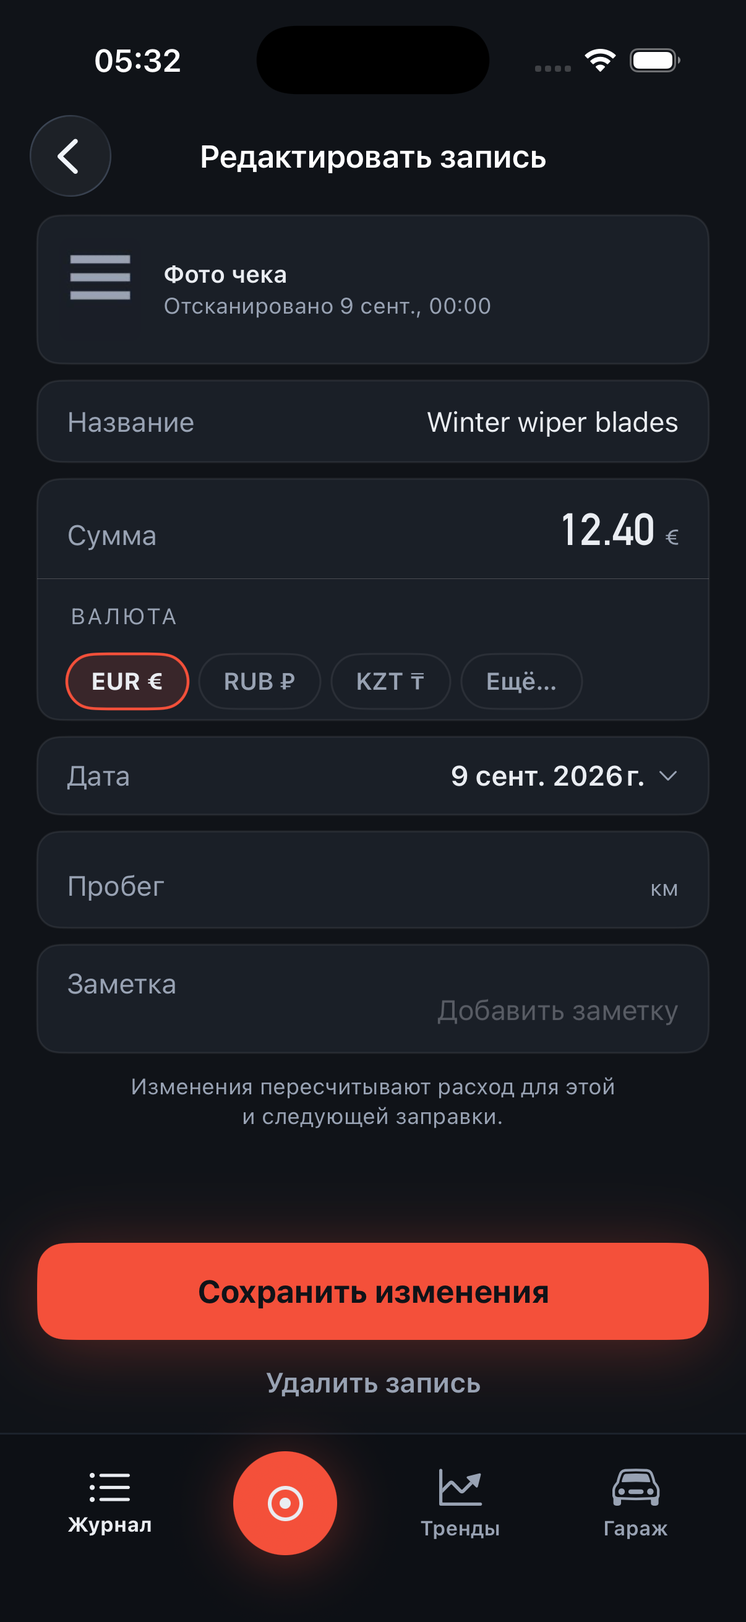
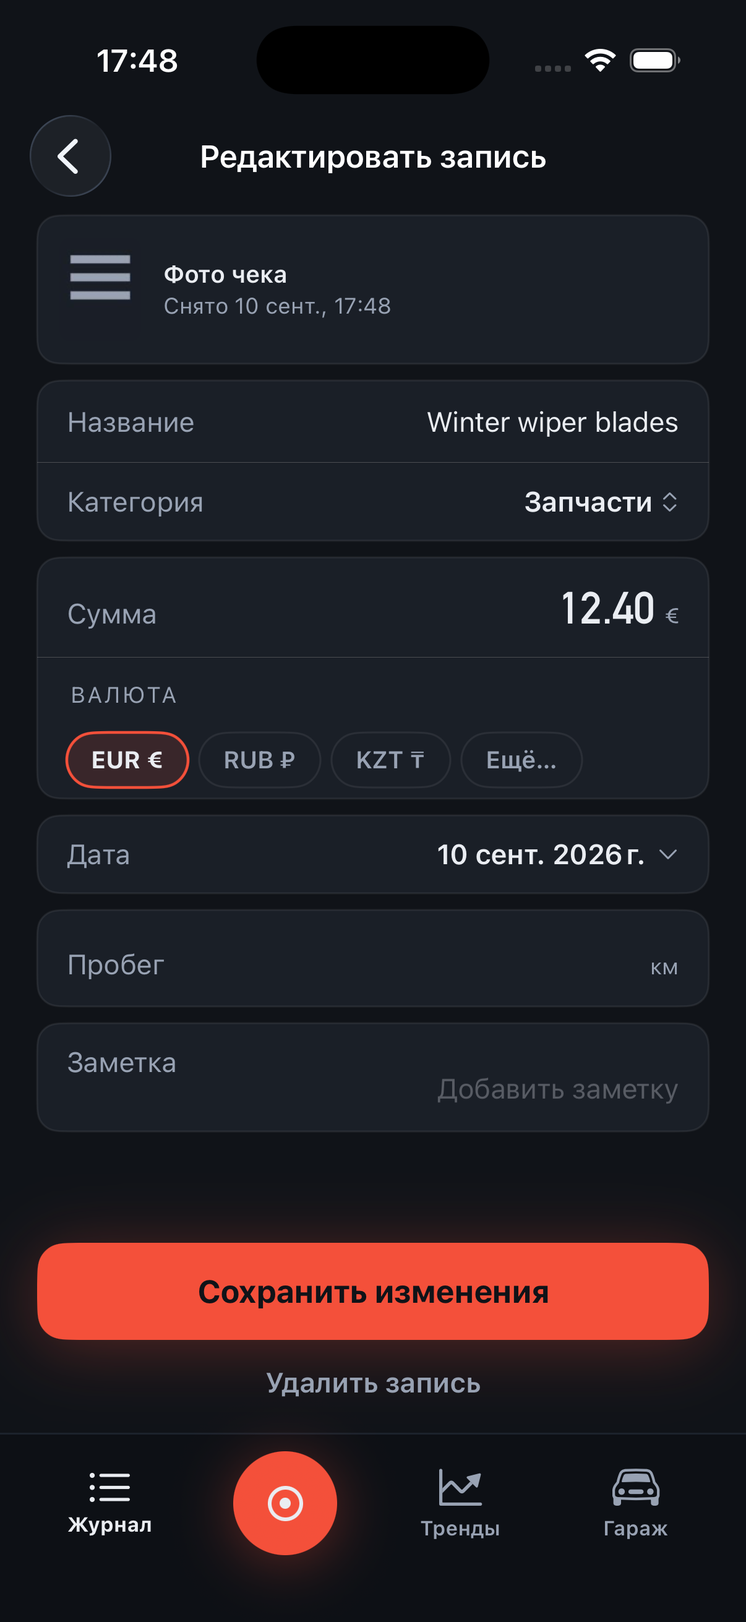
RV.195 + RV.193: an expense can be given its category, and the strip says when the photo was taken
Product owner: "I opened a service/expense entry, but opened a fillup
view with unrelated to it fields" - and, asked what it showed: "correct
values, money, but not expense view with category type."

It was not routing. The right entry loaded; the form was wrong in two
ways.

RV.195 (1). EditEntryNonFillForm never carried `category`, so an
expense's own kind - insurance, parking, parts - was neither shown,
loaded nor saved. It defaulted to `.accessory` on the way in and was
DROPPED on every save. That is hard rule 13 at its sharpest: for an
imported row the category is the importer's guess from the source file's
kind column, and it is what the Log row shows when the expense has no
title, so the user could rename a thing whose type they could neither see
nor correct.

The menu offers the standard cases plus the entry's stored category when
that is a custom `.other(...)` the list does not carry - otherwise
opening the menu on an imported expense would silently re-type it.

RV.195 (2). The screen rendered "Edits recalculate consumption for this
and the next fill-up" under a service, an expense and a charge, none of
which move a consumption segment. That is the "average number" in the
report, and it told a user their parking receipt would move their
L/100km.

RV.193, fixed the same day it was filed because it was visible in the
very screenshot taken for RV.195, one card above: the receipt strip
formatted the receipt's date-only PRINTED date with a time, so a scanned
[…]

diff --git a/ios/App/Tests/RV195ExpenseCategoryTests.swift b/ios/App/Tests/RV195ExpenseCategoryTests.swift
@@ -1,0 +1,132 @@
+import TankbookCore
+import XCTest
+@testable import Tankbook
+
+/// The expense edit screen must show, and let the user change, the expense's
+/// CATEGORY.
+///
+/// Product owner, 2026-09-10: *"I opened a service/expense entry, but opened a
+/// fillup view with unrelated to it fields"* - the values and money were right,
+/// the category was missing, and the screen talked about consumption. The
+/// category is not cosmetic: it is what the Log row shows when the expense has
+/// no title (RV.187), and for an imported row it is the importer's GUESS from
+/// the source file's kind column. A screen that offers the title but not the
+/// type lets the user rename a thing whose kind they can neither see nor
+/// correct - hard rule 13, which requires a derived value to be editable at the
+/// moment it is offered AND afterwards.
+@MainActor
+final class RV195ExpenseCategoryTests: XCTestCase {
+
+    private let vehicle = TargetCar.newCar(named: "Test car", homeCurrency: .eur).vehicleValue
+
+    private func expense(_ category: ExpenseCategory, title: String = "") -> Expense {
+        Expense(
+            id: UUID.v7(), createdAt: Date(), updatedAt: Date(), deletedAt: nil,
+            vehicleId: vehicle.id, date: Date(), odometer: nil,
+            money: Money(amount: 12, currency: .eur, homeCurrency: .eur),
+            note: nil, attachments: [], provenance: .import(source: "drivvo"),
+            conflict: .none, purchaseGroupId: nil, category: category, title: title)
+    }
+
+    /// The form loads the stored category. It defaulted to `.accessory` for
+    /// every expense before, so an insurance row opened as an accessory.
+    func testTheFormLoadsTheStoredCategory() {
+        let form = EditEntryView.pristineNonFillForm(for: expense(.insurance), vehicle: vehicle)
+        XCTAssertEqual(form.category, .insurance)
+    }
+
+    /// A custom category survives a round trip through the form.
+    func testACustomCategorySurvivesLoading() {
+        let form = EditEntryView.pristineNonFillForm(for: expense(.other("wash")),
+                                                     vehicle: vehicle)
+        XCTAssertEqual(form.category, .other("wash"))
+    }
+
+    /// Changing the category makes the screen dirty, so the discard guard and
+    /// the save button both see it. A field the save path writes but the dirty
+    /// check ignores would lose the edit on a swipe-back (hard rule 8).
+    func testChangingTheCategoryCountsAsAnEdit() {
+        let entry = expense(.parking)
+        var form = EditEntryView.pristineNonFillForm(for: entry, vehicle: vehicle)
+        XCTAssertEqual(form, EditEntryView.pristineNonFillForm(for: entry, vehicle: vehicle))
+        form.category = .fine
+        XCTAssertNotEqual(form, EditEntryView.pristineNonFillForm(for: entry, vehicle: vehicle),
+                          "a changed category must read as an unsaved edit")
+    }
+
+    /// The menu offers the standard list, and keeps a custom category the list
+    /// does not carry - otherwise opening the menu on an imported expense would
+    /// silently re-type it.
+    func testTheMenuKeepsACustomCategoryInTheList() {
+        let standard = EditEntryNonFillView.categoryOptions(including: .parking)
+        XCTAssertEqual(standard, ExpenseCategory.entryCases)
+        XCTAssertTrue(standard.contains(.parking))
+
+        let custom = EditEntryNonFillView.categoryOptions(including: .other("Техосмотр"))
+        XCTAssertEqual(custom.first, .other("Техосмотр"),
+                       "a stored custom category stays offered, first")
+        XCTAssertEqual(custom.count, ExpenseCategory.entryCases.count + 1)
+    }
+}
+
+/// RV.193: the Edit-entry receipt strip had RV.183's bug one screen over - it
+/// formatted the receipt's date-only PRINTED date with a time, so a scanned
+/// entry's strip read "Scanned 9 Sep at 00:00". It now names the capture
+/// instant, which is a real instant and does carry a time.
+@MainActor
+final class RV193ReceiptStripCaptionTests: XCTestCase {
+
+    private let vehicle = TargetCar.newCar(named: "Test car", homeCurrency: .eur).vehicleValue
+
+    private func attachment(printed: Date?, captured: Date) -> Attachment {
+        Attachment(id: UUID.v7(), createdAt: captured, updatedAt: captured,
+                   kind: .photo,
+                   file: LocalFileRef(sha256: String(repeating: "a", count: 64),
+                                      relativePath: "receipt.jpg"),
+                   extractedTimestamp: printed)
+    }
+
+    private func entry() -> Expense {
+        Expense(id: UUID.v7(), createdAt: Date(), updatedAt: Date(), deletedAt: nil,
+                vehicleId: vehicle.id, date: Date(), odometer: nil, money: nil,
+                note: nil, attachments: [], provenance: .receiptScan,
+                conflict: .none, purchaseGroupId: nil, category: .parts, title: "Blades")
+    }
+
+    /// A receipt printed on a date-only day, captured at a real time: the strip
+    /// must show the CAPTURE time, never a fabricated midnight.
+    func testTheStripNamesTheCaptureInstantNotThePrintedDate() {
+        var components = DateComponents()
+        components.year = 2026; components.month = 9; components.day = 9
+        let printedMidnight = Calendar.current.date(from: components)!
+        let captured = printedMidnight.addingTimeInterval(14 * 3600 + 32 * 60)
+
+        let line = ReceiptCardView.scannedLine(
+            attachments: [attachment(printed: printedMidnight, captured: captured)],
+            entry: entry())
+
+        let text = line
+        XCTAssertNotNil(text, "a scanned attachment must produce a caption")
+        XCTAssertFalse(text?.contains("12:00 AM") ?? true,
+                       "the strip must not print the printed date's fabricated midnight")
+        XCTAssertFalse(text?.contains("00:00") ?? true)
+        XCTAssertTrue(text?.contains("Captured") ?? false,
+                      "the caption names the capture, not the scan's printed date")
+    }
+
+    /// An attachment with no recognition pass keeps the "Added <date>" form,
+    /// and that one is date-only - so it carries no time either.
+    func testAnUnrecognisedAttachmentStillReadsAdded() {
+        let line = ReceiptCardView.scannedLine(
+            attachments: [attachment(printed: nil, captured: Date())],
+            entry: entry())
+        XCTAssertTrue(line?.contains("Added") ?? false)
+        XCTAssertFalse(line?.contains(":") ?? true, "a date-only value renders no time")
+    }
+
+    /// No attachment, no caption - the empty state's own affordance is the
+    /// whole message.
+    func testNoAttachmentYieldsNoCaption() {
+        XCTAssertNil(ReceiptCardView.scannedLine(attachments: [], entry: entry()))
+    }
+}

diff --git a/ios/App/Sources/EditEntry/EditEntryNonFillView.swift b/ios/App/Sources/EditEntry/EditEntryNonFillView.swift
@@ -48,7 +48,12 @@ struct EditEntryNonFillView: View {
                                                    replacedAt: syncOverwrite.replacedAt,
                                                    onRestore: onRestore)
                 }
-                EditEntryRows.footer
+                // No consumption footnote here. "Edits recalculate consumption
+                // for this and the next fill-up" is a FILL-UP's promise: a
+                // service, an expense or a charge moves no consumption segment
+                // (docs/SCHEMA.md - only FillUp changes trigger a recompute),
+                // and saying otherwise on an expense told the user their
+                // parking receipt would move their L/100km.
             }
             .padding(.horizontal, Theme.Spacing.screenMargin)
             .padding(.bottom, 24)
@@ -102,19 +107,70 @@ struct EditEntryNonFillView: View {
             }
             .formCard()
         case let expense as Expense:
-            FocusableFieldRow("Title", $nonFillFocus, equals: .title,
-                              rowIdentifier: "editEntryTitleRow") {
-                TextField(expense.title, text: $form.title)
-                    .multilineTextAlignment(.trailing)
-                    .font(.subheadline)
-                    .foregroundStyle(Theme.Palette.ink)
-                    .focused($nonFillFocus, equals: .title)
-                    .accessibilityIdentifier("editEntryTitleField")
+            VStack(spacing: 0) {
+                FocusableFieldRow("Title", $nonFillFocus, equals: .title,
+                                  rowIdentifier: "editEntryTitleRow") {
+                    TextField(expense.title, text: $form.title)
+                        .multilineTextAlignment(.trailing)
+                        .font(.subheadline)
+                        .foregroundStyle(Theme.Palette.ink)
+                        .focused($nonFillFocus, equals: .title)
+                        .accessibilityIdentifier("editEntryTitleField")
+                }
+                CardDivider()
+                categoryRow(current: expense.category)
             }
             .formCard()
         default:
             EmptyView()
         }
+    }
+
+    /// What KIND of expense this is - insurance, parking, a fine. It is what
+    /// the Log row falls back to when the expense has no title, and for an
+    /// imported row it is the importer's GUESS from the source file's kind
+    /// column, so a screen that shows the title without it lets the user edit
+    /// the name of a thing whose type they cannot see or correct (hard rule 13).
+    ///
+    /// `current` is offered alongside the standard cases so an expense already
+    /// carrying a custom `.other("...")` keeps it in the list rather than being
+    /// silently re-typed by opening the menu.
+    private func categoryRow(current: ExpenseCategory) -> some View {
+        HStack(spacing: 8) {
+            Text("Category")
+                .font(.subheadline)
+                .foregroundStyle(Theme.Palette.inkSoft)
+            Spacer(minLength: 8)
+            Menu {
+                ForEach(Self.categoryOptions(including: current), id: \.self) { category in
+                    Button {
+                        form.category = category
+                    } label: {
+                        Text(L10n.expenseCategoryLabel(category))
+                    }
+                }
+            } label: {
+                HStack(spacing: 4) {
+                    Text(L10n.expenseCategoryLabel(form.category))
+                        .font(.subheadline.weight(.semibold))
+                        .foregroundStyle(Theme.Palette.ink)
+                    Image(systemName: "chevron.up.chevron.down")
+                        .font(.caption2)
+                        .foregroundStyle(Theme.Palette.inkSoft)
+                }
+            }
+            .accessibilityIdentifier("editEntryCategoryMenu")
+        }
+        .padding(.horizontal, Theme.Spacing.cardPadding)
+        .padding(.vertical, 12)
+    }
+
+    /// The offered categories: the entry flow's own list, plus the entry's
+    /// stored category when that is a custom one the list does not carry.
+    static func categoryOptions(including current: ExpenseCategory) -> [ExpenseCategory] {
+        let standard = ExpenseCategory.entryCases
+        guard !standard.contains(current) else { return standard }
+        return [current] + standard
     }
 
     private var moneyCard: some View {

diff --git a/ios/App/Sources/EditEntry/ReceiptCardView.swift b/ios/App/Sources/EditEntry/ReceiptCardView.swift
@@ -99,16 +99,27 @@ struct ReceiptCardView: View {
             )
     }
 
-    /// The strip's caption line: "Scanned <timestamp>" when the photo carries an
-    /// extraction timestamp, "Added <date>" otherwise. Nil with no attachment -
-    /// the empty state's "Add receipt" affordance is the whole message there.
+    /// The strip's caption line: "Captured <instant>" for a scanned photo,
+    /// "Added <date>" for one attached without a recognition pass. Nil with no
+    /// attachment - the empty state's "Add receipt" affordance is the whole
+    /// message there.
+    ///
+    /// Both halves obey one rule (`docs/DESIGN.md` -> Typography): **format at
+    /// the precision the value has.** `createdAt` is a real instant, so it
+    /// carries a time; `entry.date` is a day, so it does not. The caption
+    /// deliberately does NOT read `extractedTimestamp` - that is the date
+    /// PRINTED ON the receipt, a date-only fact, and rendering it with a time
+    /// produced "Scanned 9 Sep at 00:00" on every scan. The receipt's own
+    /// printed date belongs in the recognised-fields list, where it is shown as
+    /// a date.
     static func scannedLine(attachments: [Attachment], entry: any Entry) -> String? {
         guard let first = attachments.first else { return nil }
-        guard let timestamp = first.extractedTimestamp else {
+        guard first.extractedTimestamp != nil else {
             return String(format: L10n.localize("Added %@"),
                           entry.date.formatted(.dateTime.month(.abbreviated).day()))
         }
-        let stamp = timestamp.formatted(.dateTime.month(.abbreviated).day().hour().minute())
-        return String(format: L10n.localize("Scanned %@"), stamp)
+        let stamp = first.createdAt.formatted(
+            .dateTime.month(.abbreviated).day().hour().minute())
+        return String(format: L10n.localize("Captured %@"), stamp)
     }
 }

diff --git a/ios/App/Sources/EditEntry/EditEntryFormState.swift b/ios/App/Sources/EditEntry/EditEntryFormState.swift
@@ -103,6 +103,11 @@ struct EditEntryNonFillForm: Equatable {
     var provider = ""
     var vendor = ""
     var title = ""
+    /// The expense's category (docs/SCHEMA.md, Expense). It is a stored fact
+    /// the user can set - and for an imported row it is what the importer
+    /// GUESSED from the source file's kind column - so it must be editable
+    /// here, not only at creation (hard rule 13). Ignored for every other kind.
+    var category: ExpenseCategory = .accessory
 
     var amountDecimal: Decimal? {
         let trimmed = amount.trimmingCharacters(in: .whitespaces)

diff --git a/ios/App/Sources/EditEntry/EditEntryView.swift b/ios/App/Sources/EditEntry/EditEntryView.swift
@@ -350,6 +350,7 @@ struct EditEntryView: View {
                 try repository.upsertServiceRecord(service)
             case var expense as Expense:
                 expense.title = nonFillForm.title
+                expense.category = nonFillForm.category
                 expense.conflict = updated.conflict
                 expense.flagAcceptance = updated.flagAcceptance
                 try repository.upsertExpense(expense)

diff --git a/ios/App/Sources/EditEntry/EditEntryView+Discard.swift b/ios/App/Sources/EditEntry/EditEntryView+Discard.swift
@@ -64,6 +64,7 @@ extension EditEntryView {
             form.vendor = service.vendor ?? ""
         case let expense as Expense:
             form.title = expense.title
+            form.category = expense.category
         default:
             break
         }

diff --git a/docs/TASKS.md b/docs/TASKS.md
@@ -104,7 +104,8 @@ dispatch ledger moved to `docs/TASKS-HISTORY.md`.*
 | PJ.59 | Recently deleted's "Overwritten by sync" section is still a fixture, and PR.14 is ticked | `[ ]` | below · RV · Reviewer bugs (first TestFlight build, 2026-09-02/03) |
 | RV.185 | A car created by an import ignores the currency the user just declared, and cannot be named | `[x]` | below · RV · Reviewer bugs (first TestFlight build, 2026-09-02/03) |
 | RV.182 | The catalogue row advertises a tank volume that picking it does not fill - on the EDIT screen | `[ ]` | below · RV · Reviewer bugs (first TestFlight build, 2026-09-02/03) |
-| RV.193 | The Edit-entry receipt strip has RV.183's bug, one screen over | `[ ]` | below · RV · Reviewer bugs (first TestFlight build, 2026-09-02/03) |
+| RV.195 | The expense edit screen has no category, and promises to recalculate consumption | `[x]` | below · RV · Reviewer bugs (first TestFlight build, 2026-09-02/03) |
+| RV.193 | The Edit-entry receipt strip has RV.183's bug, one screen over | `[x]` | below · RV · Reviewer bugs (first TestFlight build, 2026-09-02/03) |
 | RV.183 | "Scanned 9 Sep at 00:00" - the attachment viewer labels the receipt's PRINTED date as the captu | `[x]` | below · RV · Reviewer bugs (first TestFlight build, 2026-09-02/03) |
 | RV.184 | A scanned receipt's station is extracted but never shown on the "What was read" page | `[x]` | below · RV · Reviewer bugs (first TestFlight build, 2026-09-02/03) |
 | RV.181 | Nothing is ever dispatched to a share destination - EVERY share in the app | `[!]` | below · RV · Reviewer bugs (first TestFlight build, 2026-09-02/03) |
@@ -761,7 +762,8 @@ hardware. `RV.1`-`RV.5`, `RV.7`-`RV.9` and `RV.11`-`RV.16` are fixed; `RV.10`, `
 | **[ ]** PJ.59 | **Recently deleted's "Overwritten by sync" section is still a fixture, and PR.14 is ticked.** Found by the 2026-09-10 Group C/D journeys walk. `RecentlyDeletedView.swift:21-25,52-54,161-173` renders the section from `-forceSyncOverwritten`, a DEBUG launch argument, under a stale comment calling it *"a fixture until P4"* - P4 shipped. **[PR.14] is `[x]`** and its own deliverable (the Edit-entry row and its toast) IS real; what is fake is the sibling surface, which **no row tracks** - only a parenthetical in the `TASKS.md` intro acknowledges it. So a user whose entry was overwritten by a sync sees a section that exists only when a debug flag is passed. **This is `PJ.4`'s shape on a SECTION rather than a screen** - exactly the blind spot [RV.162]'s guard states for itself: it binds screens in `SCREENMAP.md` to routes, and a section inside a live screen is invisible to it | **Make the section real or delete it, and say which.** If S8's overwrite record exists in the data, render from it; if nothing writes that record, this is [RV.163]'s shape - a reader with no writer - and the honest answer is to remove the section and its promise. **Check the S5 notice ([PJ.40]) in the same pass**: the walk found the same fixture seam there, and one decision should cover both | L1: the section renders from real data, or does not exist. L1: if it stays, something a user can actually cause writes the record it reads - assert the WRITER ([RV.163]'s lesson). L4: with no debug flag and a real overwritten entry, the section appears. **Vacuous traps**: asserting the section renders under `-forceSyncOverwritten`, which is today's behaviour; keeping the fixture and updating the comment; fixing this and leaving [PJ.40]'s identical seam |
 | **[x]** RV.185 | **A car created by an import ignores the currency the user just declared, and cannot be named.** Product owner, 2026-09-10, importing from Drivvo: *"I picked to create a new car, but I wasn't able to set the name of the car - I got default 'drivvo'. My currency I chose during the import was KZT, but after import to a new car the currency became EUR."* **Both halves pinned.** **(1) The currency, and it is the serious half**: `TargetCar.newCar(named:)` (`ImportService.swift:142-153`) **hardcodes `homeCurrency: .eur`**. The user's answer lives in `ImportFlowModel.effectiveCurrency` and is passed to `ImportConversion` for the ENTRIES, but never to the Vehicle the import creates - so the rows land as KZT against a EUR home. **The consequence is not cosmetic**: every imported entry is then a foreign-currency entry needing a KZT->EUR rate per its own date, so a clean import turns into a log full of rate-pending rows ([RV.140], [RV.152]) for a user who never asked for a second currency. Hard rule 13 - a value the user stated is theirs - is violated at the moment of statement. **(2) The name**: `ImportFlowModel.newCarName` (`:323-327`) derives it from the file's `Vehicle name` column, else `pickedFormat?.displayName` - which is literally **"Drivvo"** (`ImportFormats.cs`) - else a localized fallback, and the mapping gate offers no field to change it. Hard rule 13 requires a derived value be editable **at the moment it is offered** and again afterwards; only the second half holds (the Garage can rename it) | **Pass the declared currency into the new car, and let the user name it at the gate.** `newCar(named:)` takes the currency rather than assuming one - it is a parameter, not a default - and the mapping step gains an editable name field pre-filled with today's derived value, so the derivation stays a suggestion. **Check the units too while you are there**: the same factory hardcodes km/L/L-per-100 and `paceLimitKmPerDay: 1500`, and a KZT importer is unlikely to be the only one who wanted something else - report whether the import knows better, do not guess. **Do not touch the ENTRY conversion**, which already honours the declared currency | L1: a new car created by an import carries the DECLARED currency - assert the stored `homeCurrency`, with a fixture whose declared currency is not EUR, or the assertion passes on the defect. L1: its entries and the car agree, so no imported row is rate-pending purely because of the car's home. L4: the gate offers an editable name pre-filled with the derived value, and a typed name reaches the saved car. L1: an import into an EXISTING car still leaves that car's home currency untouched ([RV.152]'s rule - a pick must not re-home a car the user already owns). **Vacuous traps**: a fixture declaring EUR, where the hardcode and the fix are indistinguishable; asserting the name field exists rather than that a typed name is saved; fixing the car and leaving the entries, or the reverse; re-homing an existing destination car, which is a different decision | **DONE 2026-09-10, and it took a second pass.** `TargetCar.newCar` now REQUIRES a `homeCurrency` - no call site can silently reach EUR again - and the import passes the file's declared currency or the user's answer. The name is editable where the car is offered: the preview's "Imports into" card on the single-car path and the chosen lane's card on the multi-car gate, pre-filled and typed over, the id preserved so classified fills keep their destination. **Three defects the orchestrator found in the agent's work, all fixed before the commit**: (1) `swiftlint` exited **2**, not 0 as reported - `HomeUITests.swift` was two lines over the file-length ceiling; (2) **both screenshots showed no name field at all** - the preview's card sits below the fold and the mapping gate's field was on the SECOND lane, whose card starts at the frame edge, so a `-importScrollToTargetCar` hook and a first-lane seed were added and the frames re-shot; (3) the pre-fill was **`"Drivvo"`**, the format's display name - which is *the exact thing the owner complained about* (*"I got default - drivvo"*), so `pickedFormat?.displayName` is out of the chain and the fallback is the localized `Imported car`. The field also had **no resting affordance** - a `TextField` styled as plain text among static labels - so `editableValueUnderline` draws a line at rest and accents it while typing (hard rule 13 offers a value the user cannot see is editable only nominally). Screenshots EN+RU, opened and checked.
 | **[ ]** RV.182 | **The catalogue row advertises a tank volume that picking it does not fill - on the EDIT screen.** Product owner, 2026-09-10: *"when I add a car and pick it up from the list, list has a tank volume and it's not filled up automatically when I selected it from the list."* **Diagnosed by the orchestrator, both halves confirmed in code**: the suggestion row is the SHARED component ([RV.137], `Shared/VehicleCatalogSuggestionsArea.swift:66-69`) and renders `· 71 L` on **both** Add car and Vehicle detail. **Add car fills it** (`AddVehicleView.swift:121-128`, covered by passing L4s asserting `"71"` and the gallons `"13.2"`). **Vehicle detail does not**: `VehicleDetailFormState.applyMakeModelSuggestion` (`:75-85`) copies make, model and year and nothing else, pinned deliberately by `VehicleEditSuggestionTests.testSuggestionPickStoresOnlyMakeModelYearAndNoCatalogIdentifier` - *"fuel kinds, capacity or units over the user's own values, fails here"*. The omission's REASONING is right (hard rule 13: a value the user set is theirs permanently); the defect is that **the row still promises the number**. A wrong theory was checked and discarded: a locale decimal bug is impossible, `VehicleCapacity.formattedText` pins `en_US_POSIX` so the dot round-trips | **DECIDED 2026-09-10 (product owner): fill it ONLY when the field is empty.** Blank-fields-only - the same rule `ReceiptAttachMerge` already applies when a receipt is attached to a typed entry ([PJ.48]) - so an empty field takes the catalogue value and a field the user has filled is never touched. An empty field is not a user value, so hard rule 13 is satisfied rather than bent. **Reuse the existing blank-fields-only seam rather than writing a second one**; if the shapes genuinely differ, extract the shared part and say what differs. **The existing test must be AMENDED, not deleted** - its claim narrows from *"capacity never moves"* to *"a capacity the user set never moves"*, and that narrowing is the row | L1: picking a suggestion with an EMPTY capacity field fills it, converted to the user's volume unit ([RV.69]) - assert the value, and the litres stored on save. L1: picking one with a capacity ALREADY set leaves it byte-identical, and the amended `VehicleEditSuggestionTests` still passes. L1: the same for battery kWh on an EV. L4: EN and RU on Vehicle detail. **Vacuous traps**: asserting the field changed without asserting the OTHER case is untouched - the no-overwrite half is the one with a user behind it; deleting the existing test instead of narrowing it; a second blank-fields-only rule; filling from a suggestion whose `tankCapacityL` is nil, which would blank a field the user set |
-| **[ ]** RV.193 | **The Edit-entry receipt strip has RV.183's bug, one screen over.** `ReceiptCardView.scannedLine` (`ios/App/Sources/EditEntry/ReceiptCardView.swift:105-113`) formats the **date-only** `first.extractedTimestamp` with `.hour().minute()` and labels it `"Scanned %@"`, so the strip still renders "Scanned <date>, 00:00" on the entry screen after RV.183 fixed the viewer. **Found by the RV.183 agent, which correctly declined to fix it out of scope** - a textbook sibling defect (`docs/DEFECT-PATTERNS.md`): the same wrong formatting, in a second place, reached by a different door | Apply RV.183's rule - `docs/DESIGN.md` -> Typography, format at the precision the value has - and **decide the `"Added %@"` fallback** at the same time: an attachment with no extraction has only `createdAt`, which IS an instant, so the two labels do not want the same format | L1 on the strip's caption, red today: a date-only extraction renders no time. **Vacuous trap**: asserting the caption merely exists - it exists, wrongly. Assert the rendered text has no `00:00` | Sibling of `RV.183`; the two should have shipped together and did not |
+| **[x]** RV.195 | **The expense edit screen has no category, and promises to recalculate consumption.** Product owner, 2026-09-10: *"I opened a service/expense entry, but opened a fillup view with unrelated to it fields"* - and, asked what the screen showed: *"correct values, money, but not expense view with category type."* Two defects in one form. **(1)** `EditEntryNonFillForm` never carried `category`, so the expense's own kind - insurance, parking, parts - was neither shown, loaded, nor saved. It defaulted to `.accessory` for every expense on the way in and was **dropped on every save**. That is a hard rule 13 failure at its sharpest: for an IMPORTED row the category is the importer's guess from the source file's kind column (`RV.187`), and it is what the Log row shows when the expense has no title - so the user could rename a thing whose type they could neither see nor correct. **(2)** The screen rendered `EditEntryRows.footer` - *"Edits recalculate consumption for this and the next fill-up"* - under a service, an expense AND a charge, none of which move a consumption segment. That is the "average number" in the report | **DONE 2026-09-10.** `category` joins the non-fill form, is loaded by `pristineNonFillForm` (the single source shared with the RV.31 discard baseline, so a changed category correctly reads as an unsaved edit), rendered as a menu row beside Title, and written by `saveNonFill`. The menu offers `ExpenseCategory.entryCases` **plus the entry's stored category when that is a custom `.other(...)`** the list does not carry - otherwise opening the menu on an imported expense would silently re-type it. The consumption footnote is gone from the non-fill screen, with the reason recorded where it was | L1 `RV195ExpenseCategoryTests` (4): the form loads the stored category; a custom one survives; changing it counts as an edit (a field the save writes but the dirty check ignores loses the edit on swipe-back, hard rule 8); the menu keeps a custom category. **Mutation**: dropping the load turns two red - every expense opens as `accessory`, exactly as it shipped. Screenshots `PJ.28-expense{,-ru}` re-shot and opened: Category / Категория renders with its picker, and no consumption line | **Not fixed, and worth its own row**: a SERVICE still shows only a Vendor field - its line items and their categories are not editable here at all, which is the same shape one entry kind over |
+| **[x]** RV.193 | **The Edit-entry receipt strip has RV.183's bug, one screen over.** `ReceiptCardView.scannedLine` (`ios/App/Sources/EditEntry/ReceiptCardView.swift:105-113`) formats the **date-only** `first.extractedTimestamp` with `.hour().minute()` and labels it `"Scanned %@"`, so the strip still renders "Scanned <date>, 00:00" on the entry screen after RV.183 fixed the viewer. **Found by the RV.183 agent, which correctly declined to fix it out of scope** - a textbook sibling defect (`docs/DEFECT-PATTERNS.md`): the same wrong formatting, in a second place, reached by a different door | Apply RV.183's rule - `docs/DESIGN.md` -> Typography, format at the precision the value has - and **decide the `"Added %@"` fallback** at the same time: an attachment with no extraction has only `createdAt`, which IS an instant, so the two labels do not want the same format | L1 on the strip's caption, red today: a date-only extraction renders no time. **Vacuous trap**: asserting the caption merely exists - it exists, wrongly. Assert the rendered text has no `00:00` | Sibling of `RV.183`; the two should have shipped together and did not | **DONE 2026-09-10, the same day it was filed** - it was on screen in the very screenshot taken for `RV.195`, one card above the defect being fixed. The strip now reads **"Captured <instant>"** from `Attachment.createdAt` and no longer formats the receipt's date-only PRINTED date with a time. The `"Added %@"` fallback was settled at the same time and stays **date-only**: an attachment with no recognition pass has only the entry's day, which is not an instant. The now-unused `"Scanned %@"` key is gone. **Mutation**: pointing the caption back at `extractedTimestamp` turns `testTheStripNamesTheCaptureInstantNotThePrintedDate` red; restored byte-identical.
 | **[x]** RV.183 | **"Scanned 9 Sep at 00:00" - the attachment viewer labels the receipt's PRINTED date as the capture time, and invents a time it never had.** Product owner, 2026-09-10, with a screenshot: *"capture time is not accounted on the photos"*. **Cause pinned.** `AttachmentRecognisedView.swift:30-33` renders `extractedTimestamp` under the word **"Scanned"**, and `scannedLine` (`:147-148`) formats it `.hour().minute()`. But `docs/SCHEMA.md:335` defines that field as *"printed date on receipt / QR timestamp"* - the date the RECEIPT carries, which is date-only, so it renders midnight. **Three faults in one line**: the label says *scanned* and the value is the receipt's date; the formatter asserts a minute precision the value does not have; and the real capture time is sitting unused on the same record (`Attachment.createdAt`, set to `Date()` in `ManualFillUpReceiptSave.writeReceiptAttachment`). A user reading `00:00` cannot tell whether the app lost the time or the receipt had none | **Show the capture time from `createdAt`, and show the receipt's printed date as what it is.** They are different facts and the page has room for both - the field table already has a `Date` row carrying the printed date, so the caption should be the capture (`createdAt`) and say so. **Never format a date-only value with a time**: if a value has no time component, render the date alone. Decide whether that rule belongs in `docs/DESIGN.md` beside the DIN/units rules and record it | L1: the caption reads from `createdAt`, not `extractedTimestamp` - assert the SOURCE, since both are `Date` and a test asserting "a date renders" passes on the defect. L1: a date-only value never renders a time component. L4: a receipt whose printed date differs from the capture day shows BOTH, distinctly - **the fixture must have them differ**, or the two fields are indistinguishable and the test proves nothing. L4: EN and RU. **Vacuous traps**: a fixture where the scan and the receipt date are the same day, which passes either way; asserting the string contains a date; fixing the label and leaving the `.hour().minute()` formatter on a date-only field | **DONE 2026-09-10.** The caption was built from the receipt's PRINTED date, which is date-only, then formatted with a time - so every scan read `00:00`, a precision the value never had. It now reads the attachment's `createdAt`, the real capture instant ("Captured Sep 10 at 2:32 PM" / "Снято 10 сент., 14:32"), and the printed date renders as a date with no time beside it. The rule is recorded in `docs/DESIGN.md` -> Typography: **format at the precision the value has.** **Mutation**: pointing the caption back at `extractedTimestamp` turns the L1 red on "the caption must be built from Attachment.createdAt"; restored, 3 pass. Screenshots EN+RU, opened by the orchestrator - both show the capture instant and the printed date as separate, correctly-formatted values.
 | **[x]** RV.184 | **A scanned receipt's station is extracted but never shown on the "What was read" page.** Product owner, 2026-09-10: *"on the scanned receipt, worth to show what was the station name extracted"*. **The page is already ready for it**: `AttachmentRecognisedView.swift:206` has `case .station: return L10n.localize("Station")`, so `FieldRef.station` exists and the row would render. **The gap is upstream** - `ScannedSavePlan.assignment(from:)` (`ScannedSavePlan.swift:139-169`) builds the stored `ExtractionMeta` from total, volume, unitPrice, date, currency and fuelKind, and **never writes `.station`**, so nothing reaches the viewer. [RV.161] added `FuelExtraction.stationName` and wired it to the Confirm pre-fill, but did not add it to the assignment the attachment stores - the row's fence was the pre-fill, and this is the half outside it | **Add the station to the assignment**, beside the six fields already there, so the stored record says what the scan concluded about the station exactly as it does for the other fields. It is presentation of a STORED conclusion, not a fact and not a source: hard rule 13 is untouched, nothing feeds back into the entry, and `userCorrected` already marks a field the user changed. **Check the viewer renders a text value correctly** - the existing rows are money, number, date, currency and fuelKind; a plain string may be a value case the formatter has not met | L1: a scan that resolved a station stores it in the assignment - assert the VALUE, not that a field exists. L1: a scan that resolved none stores no station field, never an empty one ([RV.48]'s rule: a field the parse did not assign is absent, never a blank row). L4: the "What was read" page shows the Station row with the extracted name, EN and RU. **Vacuous traps**: asserting the row appears without asserting WHICH station; writing an empty station field for a scan that found nothing; feeding the stored assignment back into the entry, which would overwrite a station the user chose | **DONE 2026-09-10.** "What was read" now lists the **Station** the extractor resolved, so the user can see whether the scan got the right forecourt. **The agent found the brief's hypothesis was incomplete and said so**: `ScannedSavePlan.assignment(from:)` did omit `.station`, but the real scanned-save path runs through `ScannedSavePlanner.plan`'s private `extractionMeta`, which omitted it too - fixing only the named function would have left a real scan still showing no station. Both builders now carry it, and `ScannedSaveValues` gained `stationName` so the scan path's `userCorrected` stays honest. Presentation only; nothing feeds back into the entry (hard rule 13 untouched). L1 `RV184StationAssignmentTests` (5). Screenshots EN+RU, opened.
 | **[!]** RV.181 | **Nothing is ever dispatched to a share destination - EVERY share in the app.** Product owner, 2026-09-10: *"I can see the share proposal, select a destination, but in the end, nothing is dispatched to the destination."* **Cause, pinned to a pattern rather than a line**: `UIActivityViewController` is hosted as the ROOT of a SwiftUI `.sheet` through `ActivityView: UIViewControllerRepresentable` (`Shared/ActivityView.swift:16-22`) at **every** call site - `DiagnosticsPreviewView.swift:38` (the diagnostics bundle), `AttachmentViewerView.swift:135` (a receipt photo or PDF), `ExportFlow.swift:42` (the account and per-car exports, PJ.36/PJ.38), `ImportWizardView.swift:542` (PJ.20 "send us the file"). An activity controller must be **presented BY** a view controller; hosted as a sheet root it is presented by SwiftUI's hosting controller, so when the user picks a destination the chosen activity has no presenter for its own UI (Mail compose, Messages, the Files browser) and the hand-off dies silently - the sheet simply closes. `ExportFlow` compounds it with `.presentationDetents([.medium, .large])` on the activity controller itself. **Why nothing caught it**: `PJ.36`/`PJ.38` ship screenshots of the share sheet OPEN, and the L4s assert it appears - the sheet appearing is the half that works. **This is a hard rule 8 failure in the export direction and it contradicts a launch commitment**: *export always free* is a product promise (`VISION.md`), `DELETE /account` points at export as the way to keep your data, and today no share leaves the app | **Present the controller instead of hosting it.** The representable should own a plain host `UIViewController` and present the `UIActivityViewController` from it (in `updateUIViewController`, guarded so it presents once), or the call site should use SwiftUI `ShareLink` where the payload is a single item. **Fix it in the ONE shared seam** - `ActivityView` is already the single door, which is why this is one row and not five - and **drop the `presentationDetents`**. Check `completionWithItemsHandler` still fires exactly once so `RV.17`'s shape-only logging survives. **Verify on a DEVICE or a simulator with a real destination** (Files/Save to Files is the cheapest): the acceptance is that a file ARRIVES, not that a sheet opened | L4: sharing reaches a destination and the artefact exists afterwards - assert the RESULT, never the sheet. **A test that asserts the sheet appeared passes on today's broken code**, which is exactly why this shipped. L1: `completionWithItemsHandler` fires once per share, `completed` true only when an activity ran. L4: all five surfaces - diagnostics, photo, PDF, account export, per-car export, send-file - go through the fixed seam. **Vacuous traps**: asserting the sheet is presented (today's state); testing with `UIActivityViewController` in a unit test, which cannot exercise the hand-off; fixing one call site and leaving the shared seam, or the seam and leaving `presentationDetents`; trusting the existing PJ.36/PJ.38 screenshots as evidence - they show the half that already worked | **NARROWED 2026-09-10 by the product owner: iOS 26 on a real iPhone 13** - and the simulator is iOS **26.5**, so this is NOT a version difference, it is **device vs simulator**. That explains why nothing reproduced: a simulator carries almost no share extensions, and *Save to Files* - the destination the agent's L4 used - is **in-process**, so it needs no presenter and works on the broken shape too. **The failing destinations are out-of-process app extensions** (Mail, Telegram, WhatsApp, AirDrop): the chosen extension must put its OWN UI up, and that is exactly what a host torn down by SwiftUI cannot provide. **So the fix addresses the right mechanism and the test was green for the most misleading possible reason.** **This row cannot be verified on a simulator at all** - the acceptance is a real device, and the L4 should be marked as covering only the in-process case. **THE CAUSE IS NOT ESTABLISHED, and the diagnosis in this row's Cause column is WITHDRAWN (2026-09-10, after review).** "An activity hosted as a sheet root has no presenter" is **not supported**: UIKit forwards a presentation up the parent hierarchy, so the hosting controller IS a presenter. The counter-evidence was in hand and misread - *Save to Files completes under BOTH the old and the new shape*, which was recorded above as "the test was green for the most misleading possible reason" when it is equally evidence that the old shape was not broken in the way claimed. **What shipped (2026-09-10) is HARDENING, not a fix**, and the row stays OPEN: (1) the seam now presents from a plain host and **latches only after UIKit ACCEPTS the presentation** - the first attempt set the latch before presenting, which would have turned a dropped presentation into a permanent blank sheet with no retry, a defect the change itself introduced; (2) the seam captures the **whole** completion tuple as `ShareOutcome` (activity type, completed, error domain and code - shape only, hard rule 12) and logs `failed` as an outcome distinct from `cancelled`, documented in `docs/LOGGING.md` -> Shares. **That second half is the actual deliverable**: the reason this could not be diagnosed is that a share which failed at its destination was logged identically to one the user closed. **The next device report is now diagnosable from a diagnostics bundle.** Verification still requires the product owner's physical iPhone 13 - `RV181ShareHandoffUITests` passes on both shapes and its header now says so rather than claiming it "fails on the broken seam".
